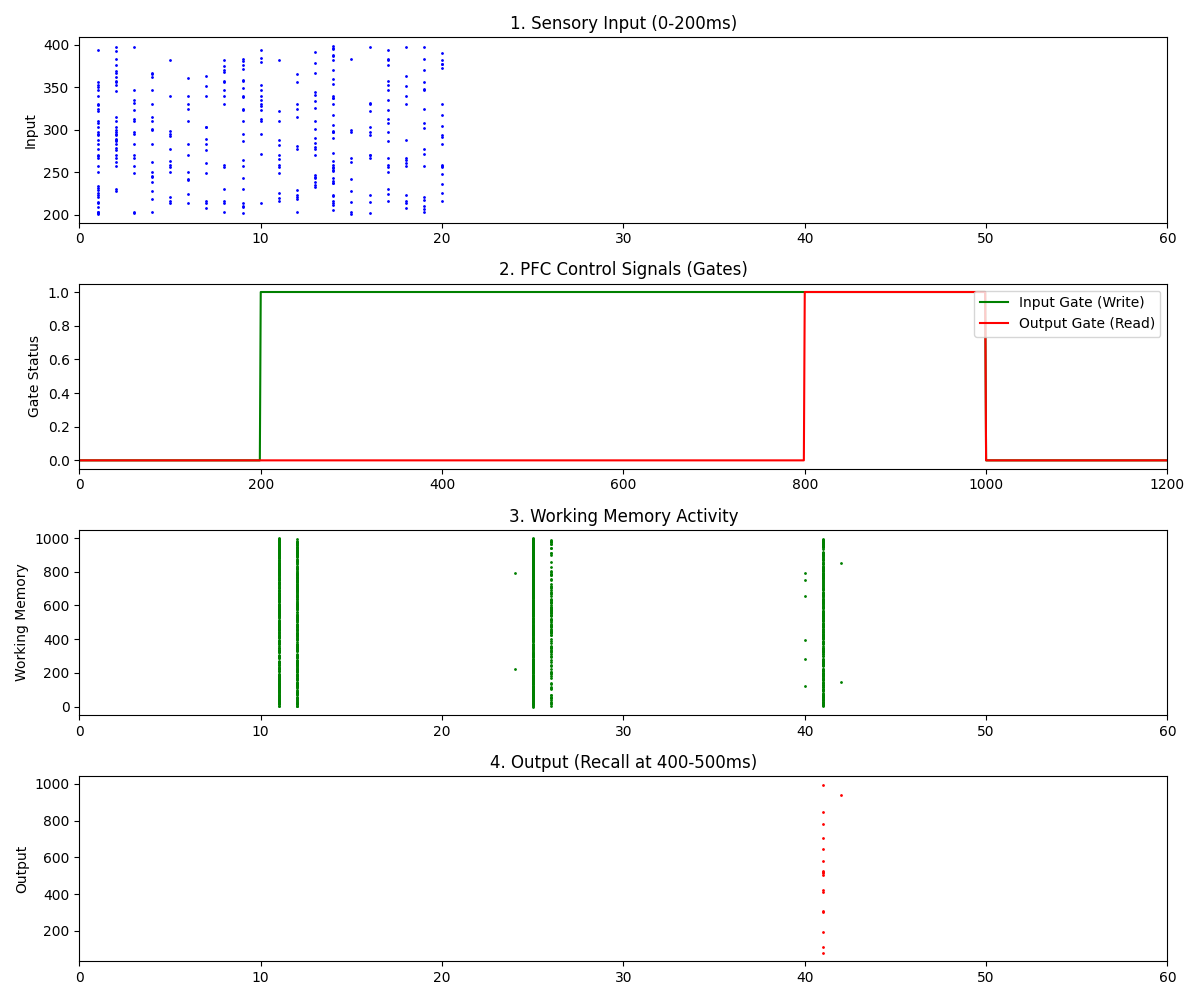
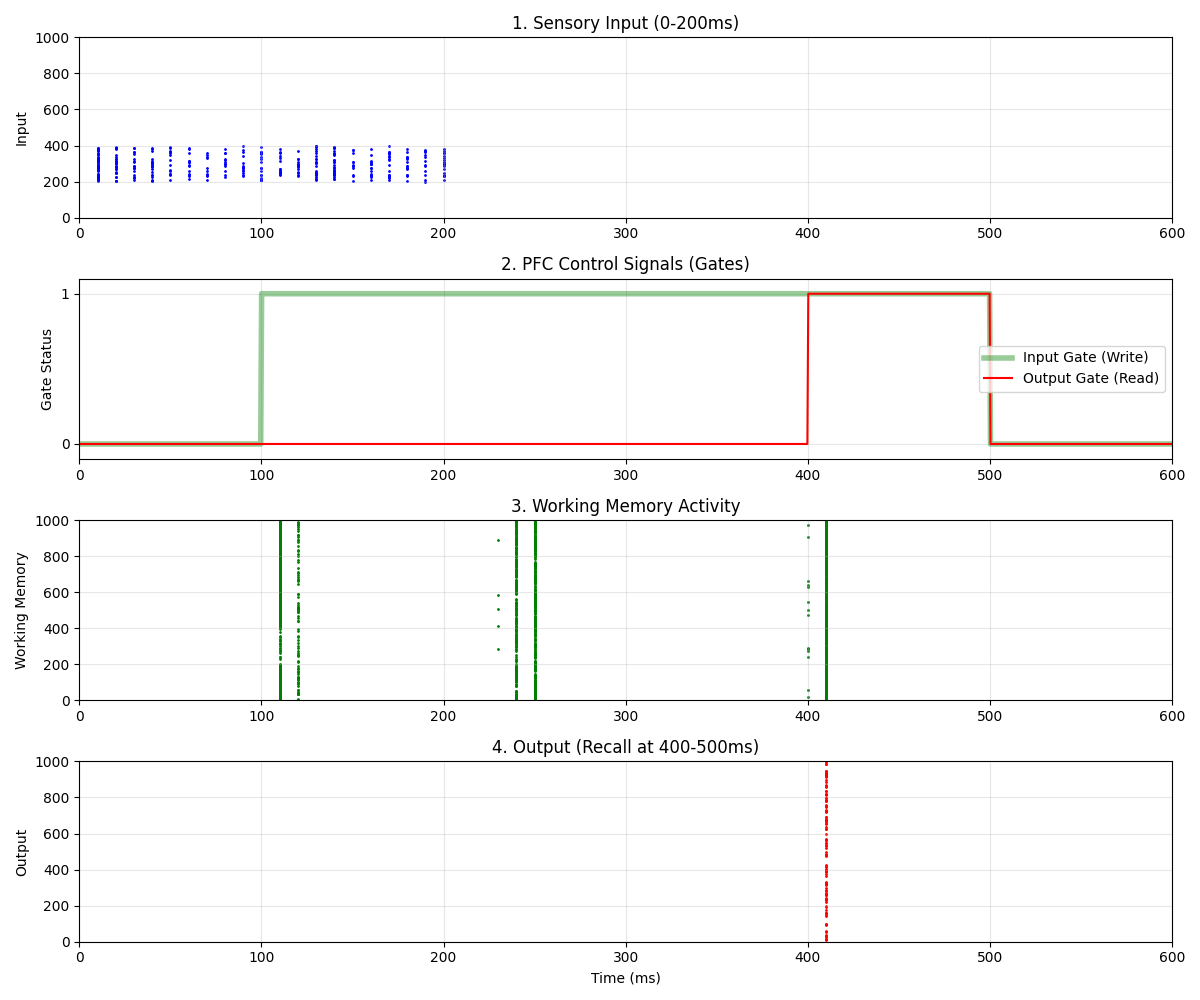
Release v0.3: Implemented Gating Control for Working Memory

diff --git a/v0.3_working_memory_control/experiment_gating.py b/v0.3_working_memory_control/experiment_gating.py
@@ -5,24 +5,22 @@ import neocortex_genes
 import neocortex_kernels
 
 # ==========================================
-# 🧪 Experiment 3: Working Memory Gating (v0.3)
+# 🧪 Experiment 3: Working Memory Gating (v0.3 Visual Fix)
 # ==========================================
 # Objective: Control information flow using "Gating" signals.
 # Structure: [Input] --(Gate In)--> [Working Memory] --(Gate Out)--> [Output]
 
 # Config
-N_NEURONS = 1000        # Size of each population
+N_NEURONS = 1000        
 SIM_TIME = 600
 DT = 0.5
 
 # Parameters
-W_INPUT_WM = 20.0       # Feedforward strength
-W_WM_REC = 2.0          # Recurrent strength (Self-sustaining)
-W_WM_OUT = 20.0         # Readout strength
+W_INPUT_WM = 20.0       
+W_WM_REC = 2.0          
+W_WM_OUT = 20.0         
 
-# Gating Signals (Bias injection)
-# -50.0: Gate Closed (Strong inhibition)
-#   0.0: Gate Open (Disinhibition)
+# Gating Signals
 GATE_CLOSED = -50.0
 GATE_OPEN = 0.0
 
@@ -35,24 +33,16 @@ class GatingCircuit:
     def __init__(self):
         print("🧠 Building Working Memory Gating Circuit...")
         
-        # 1. Populations
         self.pop_in = neocortex_genes.generate_cortical_layer(N_NEURONS, "RS")
         self.pop_wm = neocortex_genes.generate_cortical_layer(N_NEURONS, "RS")
         self.pop_out = neocortex_genes.generate_cortical_layer(N_NEURONS, "RS")
         
-        # 2. Weights
-        # Input -> WM (Identity mapping for demo)
+        # Weights
         w_in_wm = np.eye(N_NEURONS, dtype=np.float32) * W_INPUT_WM
-        
-        # WM -> WM (Recurrent - spread to neighbors)
-        # Simple random recurrent to sustain activity
         np.random.seed(42)
         w_wm_rec = (np.random.rand(N_NEURONS, N_NEURONS) < 0.1).astype(np.float32) * W_WM_REC
-        
-        # WM -> Output (Identity mapping)
         w_wm_out = np.eye(N_NEURONS, dtype=np.float32) * W_WM_OUT
         
-        # GPU Transfer
         self.d_w_in_wm = cuda.to_device(w_in_wm)
         self.d_w_wm_rec = cuda.to_device(w_wm_rec)
         self.d_w_wm_out = cuda.to_device(w_wm_out)
@@ -80,44 +70,38 @@ class GatingCircuit:
     def run(self):
         print("🚀 Running Gating Simulation...")
         
-        history = {'in': [], 'wm': [], 'out': []}
+        # Record time points for clearer plotting
+        history = {'in_t': [], 'in_id': [], 'wm_t': [], 'wm_id': [], 'out_t': [], 'out_id': []}
         gate_status = {'in': [], 'out': []}
         
-        # Input Pattern (Active for 0-200ms)
         input_pattern = np.zeros(N_NEURONS, dtype=np.float32)
-        input_pattern[200:400] = 50.0 # Stimulate neurons 200-400
+        input_pattern[200:400] = 50.0 
         
         steps = int(SIM_TIME / DT)
         
         for t_step in range(steps):
             time = t_step * DT
             
-            # --- Scenario Control ---
-            # 0-100ms:   Input ON, Gate IN=CLOSED, Gate OUT=CLOSED -> WM stays silent
-            # 100-200ms: Input ON, Gate IN=OPEN,   Gate OUT=CLOSED -> WM loads data
-            # 200-400ms: Input OFF,Gate IN=CLOSED, Gate OUT=CLOSED -> WM holds data (Delay)
-            # 400-500ms: Input OFF,Gate IN=CLOSED, Gate OUT=OPEN   -> Output fires (Recall)
-            
             # 1. Input Current
             current_in = input_pattern if time < 200 else np.zeros(N_NEURONS, dtype=np.float32)
             self.gpu_in['i'].copy_to_device(current_in)
             
-            # 2. Gate Control (Bias)
+            # 2. Gate Control
             bias_wm = GATE_CLOSED
             bias_out = GATE_CLOSED
             
-            if 100 <= time < 200: bias_wm = GATE_OPEN   # Open Input Gate (Write)
-            if 200 <= time < 400: bias_wm = 5.0         # Maintenance (Slight boost to keep alive)
+            if 100 <= time < 200: bias_wm = GATE_OPEN   
+            if 200 <= time < 400: bias_wm = 5.0         
             if 400 <= time < 500: 
-                bias_wm = 5.0                           # Keep holding
-                bias_out = GATE_OPEN                    # Open Output Gate (Read)
+                bias_wm = 5.0                           
+                bias_out = GATE_OPEN                    
             
             gate_status['in'].append(1 if bias_wm >= 0 else 0)
             gate_status['out'].append(1 if bias_out >= 0 else 0)
             
             # --- Simulation Step ---
             
-            # 1. Update Input Layer
+            # Input Layer
             neocortex_kernels.update_neuron_kernel[self.dim[0], self.dim[1]](
                 self.gpu_in['v'], self.gpu_in['u'], self.gpu_in['a'], self.gpu_in['b'],
                 self.gpu_in['c'], self.gpu_in['d'], self.gpu_in['i'], self.gpu_in['s'],
@@ -125,31 +109,22 @@ class GatingCircuit:
             )
             cuda.synchronize()
             
-            # 2. Transmit Input -> WM
+            # Input -> WM
             neocortex_kernels.clear_buffer_kernel[self.dim[0], self.dim[1]](self.gpu_wm['i'], N_NEURONS)
             neocortex_kernels.synapse_kernel[self.dim2d[0], self.dim2d[1]](
                 self.gpu_in['s'], self.gpu_wm['i'], self.d_w_in_wm, N_NEURONS, N_NEURONS
             )
             
-            # 3. Transmit WM -> WM (Recurrent)
+            # WM -> WM
             neocortex_kernels.synapse_kernel[self.dim2d[0], self.dim2d[1]](
                 self.gpu_wm['s'], self.gpu_wm['i'], self.d_w_wm_rec, N_NEURONS, N_NEURONS
             )
             
-            # 4. Update WM Layer (With Gating Bias)
-            # Update kernel needs to handle bias. We add bias to 'i' buffer before update?
-            # Or assume kernel takes bias. neocortex_kernels v0.2's update_neuron doesn't take bias arg.
-            # Let's add bias manually to the buffer here on host? Too slow.
-            # Hack: Add bias using a simple kernel or modify I_input in-place?
-            # Wait, update_neuron_kernel in v0.2 takes: (v, u, a, b, c, d, I_input, spike_out, dt, total)
-            # It does NOT take bias.
-            # Fix: We will launch a tiny kernel to add bias to 'i' buffer before update.
-            # Or just assume we can edit the kernel? No, reuse v0.2.
-            # Let's add bias to the input buffer directly via a new simple kernel here.
-            
+            # Bias Kernel
             add_bias_kernel[self.dim[0], self.dim[1]](self.gpu_wm['i'], bias_wm, N_NEURONS)
             cuda.synchronize()
             
+            # WM Update
             neocortex_kernels.update_neuron_kernel[self.dim[0], self.dim[1]](
                 self.gpu_wm['v'], self.gpu_wm['u'], self.gpu_wm['a'], self.gpu_wm['b'],
                 self.gpu_wm['c'], self.gpu_wm['d'], self.gpu_wm['i'], self.gpu_wm['s'],
@@ -157,13 +132,13 @@ class GatingCircuit:
             )
             cuda.synchronize()
             
-            # 5. Transmit WM -> Output
+            # WM -> Output
             neocortex_kernels.clear_buffer_kernel[self.dim[0], self.dim[1]](self.gpu_out['i'], N_NEURONS)
             neocortex_kernels.synapse_kernel[self.dim2d[0], self.dim2d[1]](
                 self.gpu_wm['s'], self.gpu_out['i'], self.d_w_wm_out, N_NEURONS, N_NEURONS
             )
             
-            # 6. Update Output Layer (With Gating Bias)
+            # Output Bias & Update
             add_bias_kernel[self.dim[0], self.dim[1]](self.gpu_out['i'], bias_out, N_NEURONS)
             cuda.synchronize()
             
@@ -176,13 +151,26 @@ class GatingCircuit:
             
             # Log
             if t_step % 20 == 0:
-                history['in'].append(np.where(self.gpu_in['s'].copy_to_host() > 0)[0])
-                history['wm'].append(np.where(self.gpu_wm['s'].copy_to_host() > 0)[0])
-                history['out'].append(np.where(self.gpu_out['s'].copy_to_host() > 0)[0])
+                # Input
+                ids = np.where(self.gpu_in['s'].copy_to_host() > 0)[0]
+                if len(ids) > 0:
+                    history['in_t'].extend([time] * len(ids))
+                    history['in_id'].extend(ids)
+                
+                # WM
+                ids = np.where(self.gpu_wm['s'].copy_to_host() > 0)[0]
+                if len(ids) > 0:
+                    history['wm_t'].extend([time] * len(ids))
+                    history['wm_id'].extend(ids)
+                
+                # Output
+                ids = np.where(self.gpu_out['s'].copy_to_host() > 0)[0]
+                if len(ids) > 0:
+                    history['out_t'].extend([time] * len(ids))
+                    history['out_id'].extend(ids)
 
         return history, gate_status
 
-# Helper Kernel for Bias
 @cuda.jit
 def add_bias_kernel(buffer, bias, size):
     tid = cuda.grid(1)
@@ -195,49 +183,58 @@ def main():
     
     print("\n📊 Analyzing Gating Control...")
     
+    # Time axis for gates
+    t_gate = np.linspace(0, SIM_TIME, len(gates['in']))
+    
     plt.figure(figsize=(12, 10))
     
     # 1. Input
     plt.subplot(4, 1, 1)
-    for t, ids in enumerate(hist['in']):
-        plt.scatter([t]*len(ids), ids, s=1, color='blue')
+    plt.scatter(hist['in_t'], hist['in_id'], s=1, color='blue')
     plt.ylabel('Input')
-    plt.xlim(0, len(hist['in']))
+    plt.ylim(0, N_NEURONS)
+    plt.xlim(0, SIM_TIME)
     plt.title("1. Sensory Input (0-200ms)")
+    plt.grid(True, alpha=0.3)
     
-    # 2. Gate Signals
+    # 2. Gate Signals (Overlapping visualization)
     plt.subplot(4, 1, 2)
-    plt.plot(gates['in'], label='Input Gate (Write)', color='green')
-    plt.plot(gates['out'], label='Output Gate (Read)', color='red')
+    # Green line: Thick and semi-transparent
+    plt.plot(t_gate, gates['in'], label='Input Gate (Write)', color='green', linewidth=4, alpha=0.4)
+    # Red line: Thin and solid
+    plt.plot(t_gate, gates['out'], label='Output Gate (Read)', color='red', linewidth=1.5)
     plt.ylabel('Gate Status')
-    plt.xlim(0, len(gates['in']))
-    plt.legend(loc='upper right')
+    plt.ylim(-0.1, 1.1)
+    plt.xlim(0, SIM_TIME)
+    plt.yticks([0, 1]) # 0と1だけ表示
+    plt.legend(loc='center right')
     plt.title("2. PFC Control Signals (Gates)")
+    plt.grid(True, alpha=0.3)
     
     # 3. Working Memory
     plt.subplot(4, 1, 3)
-    for t, ids in enumerate(hist['wm']):
-        plt.scatter([t]*len(ids), ids, s=1, color='green')
+    plt.scatter(hist['wm_t'], hist['wm_id'], s=1, color='green')
     plt.ylabel('Working Memory')
-    plt.xlim(0, len(hist['wm']))
+    plt.ylim(0, N_NEURONS)
+    plt.xlim(0, SIM_TIME)
     plt.title("3. Working Memory Activity")
+    plt.grid(True, alpha=0.3)
     
     # 4. Output
     plt.subplot(4, 1, 4)
-    for t, ids in enumerate(hist['out']):
-        plt.scatter([t]*len(ids), ids, s=1, color='red')
+    plt.scatter(hist['out_t'], hist['out_id'], s=1, color='red')
     plt.ylabel('Output')
-    plt.xlim(0, len(hist['out']))
+    plt.ylim(0, N_NEURONS)
+    plt.xlim(0, SIM_TIME)
     plt.title("4. Output (Recall at 400-500ms)")
+    plt.xlabel('Time (ms)')
+    plt.grid(True, alpha=0.3)
     
     plt.tight_layout()
     plt.show()
     
-    print("✅ Check the timing:")
-    print("   - 0-100ms: Input is ON, but Gate Closed -> WM Silent.")
-    print("   - 100-200ms: Gate OPEN -> WM Loads data.")
-    print("   - 200-400ms: Input OFF, Gate Closed -> WM Holds data (Reverb).")
-    print("   - 400-500ms: Output Gate OPEN -> Data flows to Output.")
+    print("✅ Experiment Done.")
+    print("   Check the unified X-axis (ms). The flow of information should be clear now.")
 
 if __name__ == "__main__":
     main()

diff --git a/README.md b/README.md
@@ -26,6 +26,12 @@ Solves the XOR problem using a microcircuit of Excitatory (RS) and Inhibitory (F
 cd v0.1_xor_logic
 python experiment_xor.py
 ```
+| Input A | Input B | Output | Spikes |
+|:------:|:------:|:------:|:------:|
+| 0 | 0 | OFF | 0 ✅ |
+| 1 | 0 | ON  | 6 ✅ |
+| 0 | 1 | ON  | 4 ✅ |
+| 1 | 1 | OFF | 2 ✅ |
 
 ### v0.2: Reinforcement Learning (R-STDP with Traces)
 **Location:** `v0.2_reinforcement_learning/`
